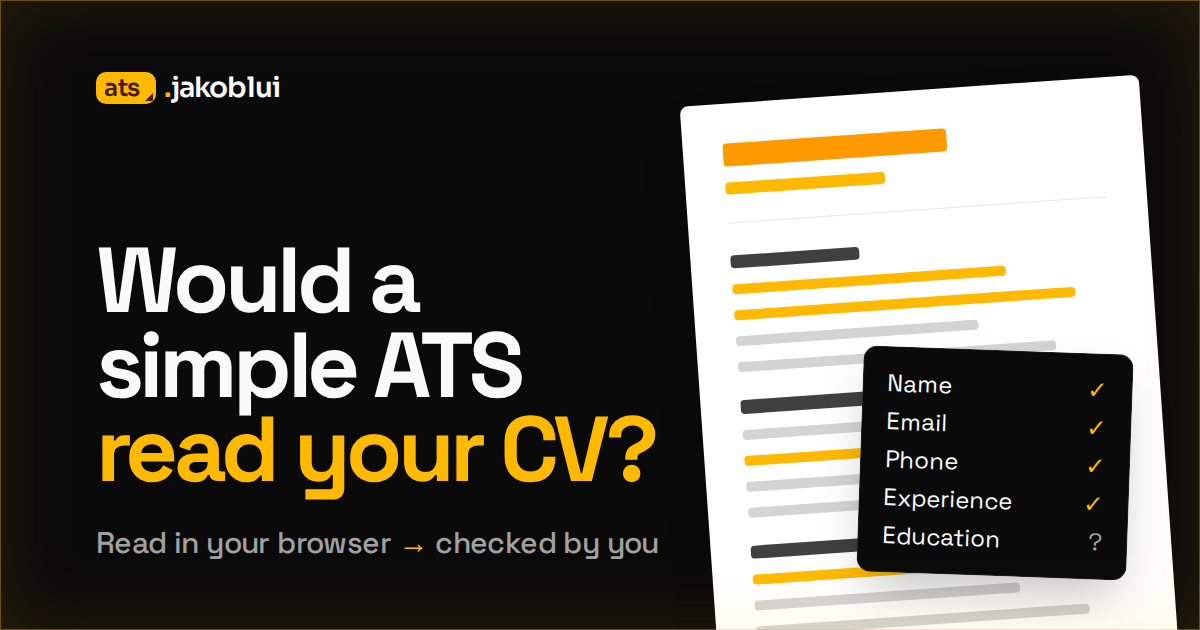
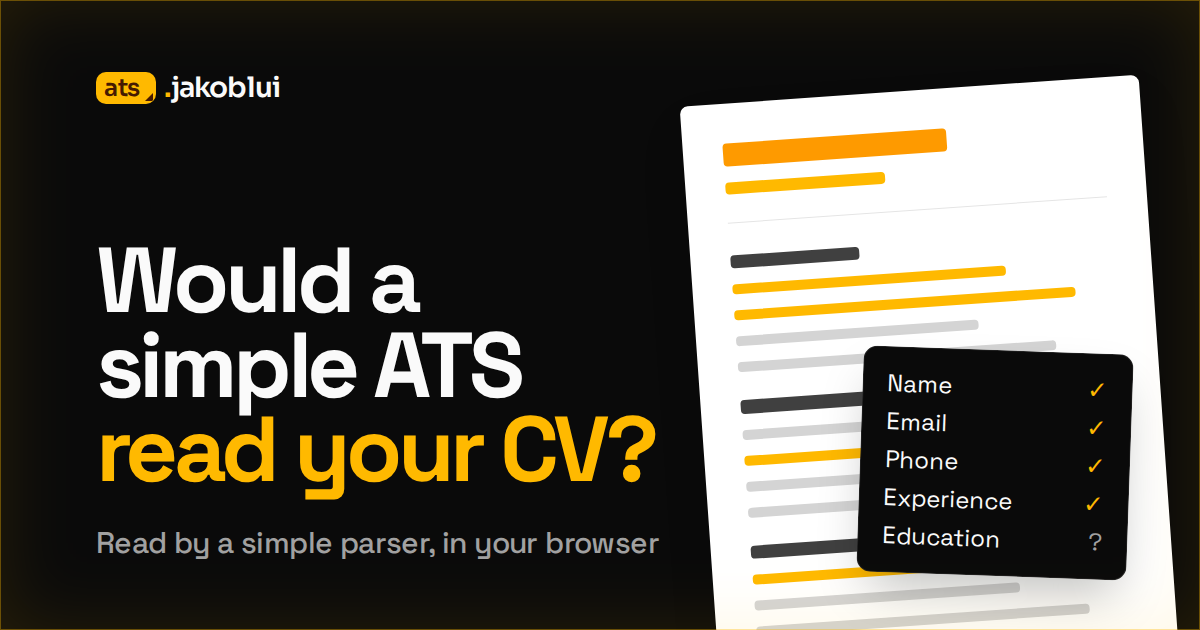
Suggest checking the fields in a note, rather than insisting

Changed region(s): [[0.1233, 0.8444, 0.555, 0.9048]]

diff --git a/index.html b/index.html
@@ -11,7 +11,7 @@
     <link rel="apple-touch-icon" href="/apple-touch-icon.png" />
     <!-- Static on purpose: link previews and crawlers don't run JavaScript, so every URL shares
          these. -->
-    <meta name="description" content="See what a basic ATS might show a recruiter from your CV. A simple parser reads it in your browser; you check each field." />
+    <meta name="description" content="See what a basic ATS might show a recruiter from your CV, read by a simple parser in your browser." />
     <link rel="canonical" href="https://ats.jakoblui.com/" />
     <!-- The page background (`--background`), in hex. Follows the system theme, not the toggle. -->
     <meta name="theme-color" content="#f7f7f7" media="(prefers-color-scheme: light)" />
@@ -20,7 +20,7 @@
     <meta property="og:type" content="website" />
     <meta property="og:url" content="https://ats.jakoblui.com/" />
     <meta property="og:title" content="Would a simple ATS read your CV? | Jakob Lui" />
-    <meta property="og:description" content="See what a basic ATS might show a recruiter from your CV. A simple parser reads it in your browser; you check each field." />
+    <meta property="og:description" content="See what a basic ATS might show a recruiter from your CV, read by a simple parser in your browser." />
 
     <!-- The app's og:image lines (1200 × 630, with og:image:width, og:image:height and
          og:image:alt) go below, a line away from the template's, so template updates don't

diff --git a/src/components/ats/parse-result/parse-result.test.tsx b/src/components/ats/parse-result/parse-result.test.tsx
@@ -51,18 +51,18 @@ describe("ParseResult shows a missing field as missing", () => {
   });
 });
 
-describe("ParseResult asks the visitor to check it", () => {
+describe("ParseResult suggests checking the fields", () => {
   it("on every result with fields, partial ones too", () => {
     for (const result of [readableResult, { ...readableResult, visibility: "partial" as const }]) {
       const { unmount } = render(<ParseResult result={result} />);
-      expect(screen.getByText(/check each field against your CV/i)).toBeInTheDocument();
+      expect(screen.getByText(/checking each field against your CV/i)).toBeInTheDocument();
       unmount();
     }
   });
 
   it("not when nothing was readable, so there is nothing to check", () => {
     render(<ParseResult result={invisibleResult} />);
-    expect(screen.queryByText(/check each field/i)).toBeNull();
+    expect(screen.queryByText(/checking each field/i)).toBeNull();
   });
 });
 

diff --git a/src/components/ats/upload-view/upload-view.tsx b/src/components/ats/upload-view/upload-view.tsx
@@ -69,8 +69,7 @@ export const UploadView = ({ onFile, dragging = false, focusButton = false }: Up
       <div className="flex flex-col items-center gap-3 text-center">
         <h1 className="text-3xl font-semibold text-balance sm:text-4xl">Would a simple ATS read your CV?</h1>
         <p className="text-lg text-balance text-foreground/75 dark:text-muted-foreground">
-          See what a basic ATS might show a recruiter from your CV, read by a simple parser in your browser. Check each
-          field against your CV: only you know what it should say.
+          See what a basic ATS might show a recruiter from your CV, read by a simple parser in your browser.
         </p>
       </div>
       <div className="grid items-start gap-10 lg:grid-cols-2 lg:gap-12">

diff --git a/src/components/ats/upload-view/upload-view.test.tsx b/src/components/ats/upload-view/upload-view.test.tsx
@@ -11,7 +11,7 @@ describe("UploadView", () => {
     const area = container.querySelector<HTMLElement>("div.border-dashed")!;
     const heading = screen.getByRole("heading", { level: 1 });
     expect(area).not.toContainElement(heading);
-    expect(area).not.toContainElement(screen.getByText(/only you know what it should say/));
+    expect(area).not.toContainElement(screen.getByText(/might show a recruiter/));
     expect(area).not.toContainElement(screen.getByText(/never leaves your device/));
     expect(area).toContainElement(screen.getByRole("button", { name: "Upload CV" }));
     expect(screen.getAllByRole("button")).toHaveLength(1);

diff --git a/src/components/ats/parse-result/parse-result.tsx b/src/components/ats/parse-result/parse-result.tsx
@@ -12,7 +12,7 @@ import { TextTab } from "./text-tab";
 type Warning = Result["warnings"][number];
 
 // The page shows what was read and never vouches for it: only the visitor knows what their CV says.
-const CHECK_NOTE = "Check each field against your CV: a recruiter would see it as it is here.";
+const CHECK_NOTE = "Worth checking each field against your CV: a field can be filled in and still hold the wrong text.";
 
 const PARTIAL_NOTE = "Some of your CV came through as text, and some of it may be missing or in the wrong order.";
 

diff --git a/src/components/og-card/og-card.stories.tsx b/src/components/og-card/og-card.stories.tsx
@@ -16,7 +16,7 @@ type Story = StoryObj<typeof OgCard>;
 export const Default: Story = {
   play: async ({ canvas, canvasElement }) => {
     await expect(canvas.getByRole("heading", { name: /read your CV\?/ })).toBeVisible();
-    await expect(canvas.getByText(/checked by you/)).toBeVisible();
+    await expect(canvas.getByText(/in your browser/)).toBeVisible();
 
     // The size og:image:width/height in index.html declare.
     const card = canvasElement.querySelector("[data-og-card]")!;

diff --git a/src/components/og-card/og-card.tsx b/src/components/og-card/og-card.tsx
@@ -88,7 +88,7 @@ export const OgCard = () => {
           <span className="block text-primary">read your CV?</span>
         </h1>
         <p className="mt-9 font-heading text-[30px] leading-none font-medium tracking-[-0.02em] text-muted-foreground">
-          Read in your browser <span className="text-primary">→</span> checked by you
+          Read by a simple parser, in your browser
         </p>
       </div>
     </div>
